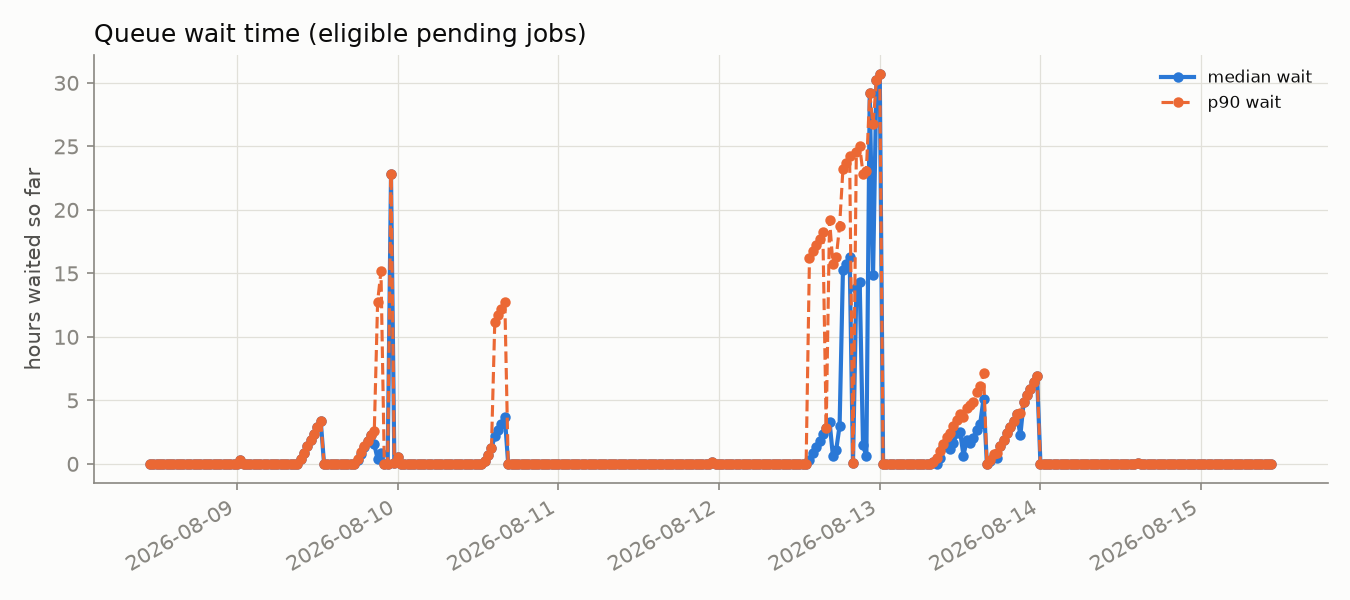
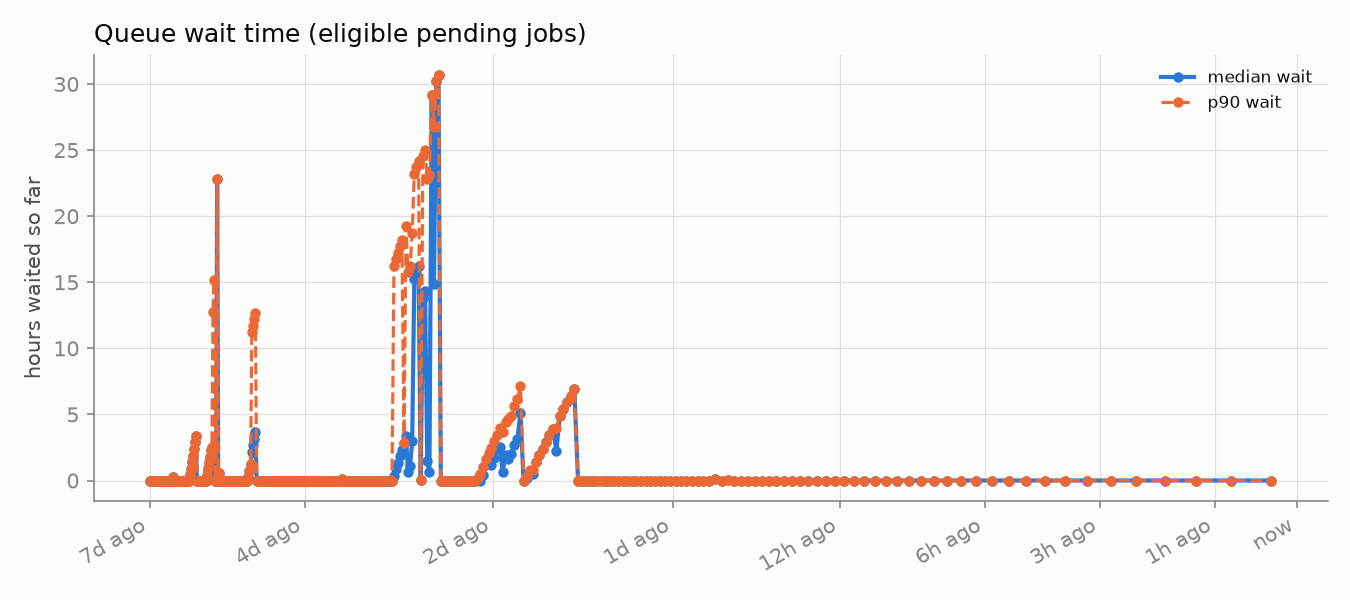
Warp live dashboard time axes toward now (log-scaled distance from present)

diff --git a/render_readme.py b/render_readme.py
@@ -11,6 +11,7 @@ No pandas - stdlib json/statistics/collections only, matching the rest of this
 repo's minimalism.
 """
 import json
+import math
 import statistics as stats
 from collections import defaultdict
 from datetime import datetime, timedelta
@@ -146,9 +147,37 @@ def percentile(sorted_vals, p):
     return sorted_vals[lo] + (sorted_vals[hi] - sorted_vals[lo]) * (idx - lo)
 
 
+def warp_time_axis(ax, x_datetimes, ref, scale_hours=3.0):
+    """Warp a datetime axis so distance-from-`ref` (typically "now") is
+    log-scaled: recent samples spread out for a close-up view, older ones
+    compress toward the left - a fisheye toward the present rather than a
+    uniform timeline. Only meaningful for the live rolling dashboard, where
+    `ref` is an actual "now"; archived weeks (a frozen past week with no
+    "now" of their own) skip this and keep a plain linear time axis. Sets
+    tick positions/labels on `ax` in human terms and returns the warped x
+    positions to plot against, same order as x_datetimes."""
+    def warp(dt):
+        delta_h = max((ref - dt).total_seconds() / 3600.0, 0.0)
+        return -math.log1p(delta_h / scale_hours)
+
+    x_warped = [warp(dt) for dt in x_datetimes]
+
+    max_h = max((ref - dt).total_seconds() / 3600.0 for dt in x_datetimes)
+    candidates = [0, 1, 3, 6, 12, 24, 48, 96, 168, 336]
+    ticks_h = [h for h in candidates if h <= max_h] or [0]
+    if ticks_h[-1] < max_h:
+        ticks_h.append(round(max_h))
+    tick_pos = [warp(ref - timedelta(hours=h)) for h in ticks_h]
+    tick_labels = ["now" if h == 0 else (f"{h}h ago" if h < 24 else f"{h / 24:g}d ago")
+                   for h in ticks_h]
+    ax.set_xticks(tick_pos)
+    ax.set_xticklabels(tick_labels)
+    return x_warped
+
+
 def usage_chart(path, title, ylabel, x, series_by_lab, colors, shown,
                  unattrib_y=None, unattrib_label="usage, unattributed",
-                 overlay_y=None, overlay_label="cluster capacity"):
+                 overlay_y=None, overlay_label="cluster capacity", warp_ref=None):
     """series_by_lab: {lab: (utilized_list, idle_list)}, idle_list None if
     the chart has no utilization concept (CPU: allocation only). Stacks each
     lab's utilized (solid) + idle (hatched, same color), then unattrib_y
@@ -157,6 +186,9 @@ def usage_chart(path, title, ylabel, x, series_by_lab, colors, shown,
     labs = sorted(series_by_lab, key=lambda l: -sum(series_by_lab[l][0]))
     single_point = len(x) < 2
     has_idle = any(idle is not None for _, idle in series_by_lab.values())
+
+    x_plot = warp_time_axis(ax, x, warp_ref) if warp_ref is not None else x
+    bar_width = 0.05 if warp_ref is not None else 0.01
 
     entries = []  # (label_or_None, values, facecolor, edgecolor, hatch)
     for l in labs:
@@ -172,13 +204,13 @@ def usage_chart(path, title, ylabel, x, series_by_lab, colors, shown,
             bottom = 0
             for label, vals, fc, ec, hatch in entries:
                 v = vals[0]
-                ax.bar(x[0], v, bottom=bottom, width=0.01, color=fc,
+                ax.bar(x_plot[0], v, bottom=bottom, width=bar_width, color=fc,
                        edgecolor=(fc if ec == "none" else ec), hatch=hatch, label=label)
                 bottom += v
         else:
             all_y = [e[1] for e in entries]
             all_colors = [e[2] for e in entries]
-            polys = ax.stackplot(x, *all_y, colors=all_colors, edgecolor=SURFACE, linewidth=1)
+            polys = ax.stackplot(x_plot, *all_y, colors=all_colors, edgecolor=SURFACE, linewidth=1)
             for poly, (label, vals, fc, ec, hatch) in zip(polys, entries):
                 if hatch:
                     poly.set_hatch(hatch)
@@ -188,19 +220,25 @@ def usage_chart(path, title, ylabel, x, series_by_lab, colors, shown,
                     poly.set_label(label)
     if overlay_y is not None:
         if len(x) < 2:
-            ax.scatter(x, overlay_y, color=INK_MUTED, marker="_", s=300,
+            ax.scatter(x_plot, overlay_y, color=INK_MUTED, marker="_", s=300,
                        linewidth=1.5, label=overlay_label)
         else:
-            ax.plot(x, overlay_y, color=INK_MUTED, linewidth=1.5,
+            ax.plot(x_plot, overlay_y, color=INK_MUTED, linewidth=1.5,
                      linestyle="--", label=overlay_label)
-    all_x = list(x)
+    all_x = list(x_plot)
     if all_x:
         lo, hi = min(all_x), max(all_x)
-        pad = timedelta(minutes=30) if lo == hi else (hi - lo) * 0.05
+        if warp_ref is not None:
+            pad = 0.05 if lo == hi else (hi - lo) * 0.05
+        else:
+            pad = timedelta(minutes=30) if lo == hi else (hi - lo) * 0.05
         ax.set_xlim(lo - pad, hi + pad)
     ax.set_title(title, color=INK, fontsize=12, loc="left")
     ax.set_ylabel(ylabel)
-    fig.autofmt_xdate()
+    if warp_ref is not None:
+        plt.setp(ax.get_xticklabels(), rotation=30, ha="right")
+    else:
+        fig.autofmt_xdate()
     handles, labels_ = ax.get_legend_handles_labels()
     if has_idle:
         handles.append(mpatches.Patch(facecolor=rgba(INK_MUTED, 0.35), edgecolor=INK_MUTED,
@@ -407,6 +445,10 @@ def render(gpu_rows_all, cpu_util_rows_all, queue_rows_all_unfiltered,
     archived calendar week (assets_dir=readme_path.parent, img_prefix="")."""
     assets_dir.mkdir(parents=True, exist_ok=True)
 
+    # Warping toward "now" only makes sense for the live rolling dashboard -
+    # an archived week is a frozen past period with no "now" of its own.
+    warp_ref = window_end if live else None
+
     def in_window(r):
         return window_start <= parse_ts(r["ts"]) < window_end
 
@@ -550,7 +592,7 @@ def render(gpu_rows_all, cpu_util_rows_all, queue_rows_all_unfiltered,
     usage_chart(assets_dir / "cpu_alloc.png", "CPU allocation over time (by lab)",
                 "CPUs", x_cpu, series_cpu, colors, shown,
                 unattrib_y=unattrib_cpu_y, unattrib_label="computing, unattributed",
-                overlay_y=cap_cpu)
+                overlay_y=cap_cpu, warp_ref=warp_ref)
 
     by_ts_lab_util = defaultdict(lambda: defaultdict(float))
     by_ts_total_util = defaultdict(float)
@@ -576,7 +618,7 @@ def render(gpu_rows_all, cpu_util_rows_all, queue_rows_all_unfiltered,
     usage_chart(assets_dir / "gpu_alloc_util.png", "GPU allocation over time (by lab)",
                 "GPUs", x_gpu, series_gpu, colors, shown,
                 unattrib_y=unattrib_y, unattrib_label="computing, unattributed",
-                overlay_y=cap_gpu)
+                overlay_y=cap_gpu, warp_ref=warp_ref)
 
     # ================= bonus: queue wait time trend =================
     # Only jobs sprio actually scores (has a priority) - excludes jobs
@@ -598,16 +640,23 @@ def render(gpu_rows_all, cpu_util_rows_all, queue_rows_all_unfiltered,
         p90 = [percentile(sorted(by_ts_wait[t]), 90) if t in by_ts_wait else 0.0
                for t in ts_sorted4]
         fig, ax = plt.subplots(figsize=(9, 4))
-        ax.plot(x4, med, color=LAB_COLORS[0], linewidth=2, marker="o", markersize=4,
+        x4_plot = warp_time_axis(ax, x4, warp_ref) if warp_ref is not None else x4
+        ax.plot(x4_plot, med, color=LAB_COLORS[0], linewidth=2, marker="o", markersize=4,
                  label="median wait")
-        ax.plot(x4, p90, color=LAB_COLORS[1], linewidth=1.5, linestyle="--",
+        ax.plot(x4_plot, p90, color=LAB_COLORS[1], linewidth=1.5, linestyle="--",
                  marker="o", markersize=4, label="p90 wait")
-        lo, hi = min(x4), max(x4)
-        pad = timedelta(minutes=30) if lo == hi else (hi - lo) * 0.05
+        lo, hi = min(x4_plot), max(x4_plot)
+        if warp_ref is not None:
+            pad = 0.05 if lo == hi else (hi - lo) * 0.05
+        else:
+            pad = timedelta(minutes=30) if lo == hi else (hi - lo) * 0.05
         ax.set_xlim(lo - pad, hi + pad)
         ax.set_title("Queue wait time (eligible pending jobs)", loc="left")
         ax.set_ylabel("hours waited so far")
-        fig.autofmt_xdate()
+        if warp_ref is not None:
+            plt.setp(ax.get_xticklabels(), rotation=30, ha="right")
+        else:
+            fig.autofmt_xdate()
         ax.legend(frameon=False, fontsize=8)
         fig.tight_layout()
         fig.savefig(assets_dir / "queue_wait.png", dpi=150)

diff --git a/README.md b/README.md
@@ -2,7 +2,7 @@
 
 Automated GPU/CPU/queue utilization tracker for `hopper.cluster`, updated every 30 minutes by cron. Usernames are anonymized to a stable per-account pseudonym; lab names are real.
 
-Last updated: 2026-08-15T10:30:22-07:00
+Last updated: 2026-08-15T10:46:52-07:00
 Samples: 473 queue snapshots total (336 in the last 7 days), 473 GPU snapshots total (336 in the last 7 days)
 
 ## Resources
@@ -35,18 +35,18 @@ Based on 11 days of history so far, `hopper.cluster` has historically been most 
 <tr style='background-color:#d8efef'><td>witter-lab</td><td>user-f5bf0d80</td><td align='right'>15.0</td><td align='right'>15.0</td><td align='right'>50%</td><td align='right'>50%</td></tr>
 <tr style='background-color:#fce8e0'><td>gillen-lab</td><td>user-d21e03f5</td><td align='right'>1.5</td><td align='right'>1.5</td><td align='right'>31%</td><td align='right'>31%</td></tr>
 <tr style='background-color:#fbebf1'><td>nerenberg-lab</td><td>user-6bb5f332</td><td align='right'>0.0</td><td align='right'>40.0</td><td align='right'>—</td><td align='right'>71%</td></tr>
-<tr style='background-color:#fcf0d8'><td>ibarragarciapadilla-lab</td><td>user-eec7ffae</td><td align='right'>0.0</td><td align='right'>0.0</td><td align='right'>—</td><td align='right'>—</td></tr>
-<tr style='background-color:#fcf0d8'><td>ibarragarciapadilla-lab</td><td>user-3cfc41a3</td><td align='right'>0.0</td><td align='right'>0.0</td><td align='right'>—</td><td align='right'>—</td></tr>
 <tr style='background-color:#fce8e0'><td>gillen-lab</td><td>user-b89a87ef</td><td align='right'>0.0</td><td align='right'>0.0</td><td align='right'>—</td><td align='right'>—</td></tr>
-<tr style='background-color:#d8ecd8'><td>ritz-lab</td><td>user-37f252dd</td><td align='right'>0.0</td><td align='right'>0.0</td><td align='right'>—</td><td align='right'>—</td></tr>
 <tr style='background-color:#fcf0d8'><td>ibarragarciapadilla-lab</td><td>user-dad71a72</td><td align='right'>0.0</td><td align='right'>0.0</td><td align='right'>—</td><td align='right'>—</td></tr>
 <tr style='background-color:#dfeaf8'><td>enkavi-lab</td><td>user-c21bdaa4</td><td align='right'>0.0</td><td align='right'>0.0</td><td align='right'>—</td><td align='right'>—</td></tr>
+<tr style='background-color:#d8ecd8'><td>ritz-lab</td><td>user-37f252dd</td><td align='right'>0.0</td><td align='right'>0.0</td><td align='right'>—</td><td align='right'>—</td></tr>
+<tr style='background-color:#fcf0d8'><td>ibarragarciapadilla-lab</td><td>user-eec7ffae</td><td align='right'>0.0</td><td align='right'>0.0</td><td align='right'>—</td><td align='right'>—</td></tr>
 <tr style='background-color:#fbebf1'><td>nerenberg-lab</td><td>user-b12dc074</td><td align='right'>0.0</td><td align='right'>0.0</td><td align='right'>—</td><td align='right'>—</td></tr>
+<tr style='background-color:#fcf0d8'><td>ibarragarciapadilla-lab</td><td>user-3cfc41a3</td><td align='right'>0.0</td><td align='right'>0.0</td><td align='right'>—</td><td align='right'>—</td></tr>
 </table>
 
 ## Usage over time
 
-Charts below cover the trailing 7 days: **2026-08-08 10:30 to 2026-08-15 10:30** (PDT).
+Charts below cover the trailing 7 days: **2026-08-08 10:46 to 2026-08-15 10:46** (PDT).
 
 ![CPU allocation over time](assets/cpu_alloc.png)
 
